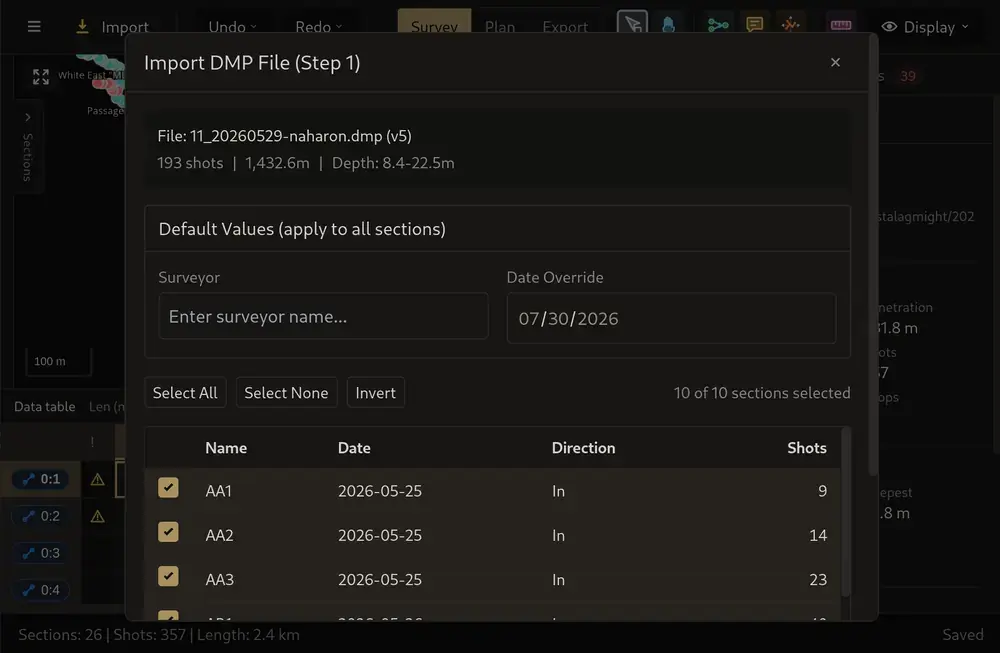
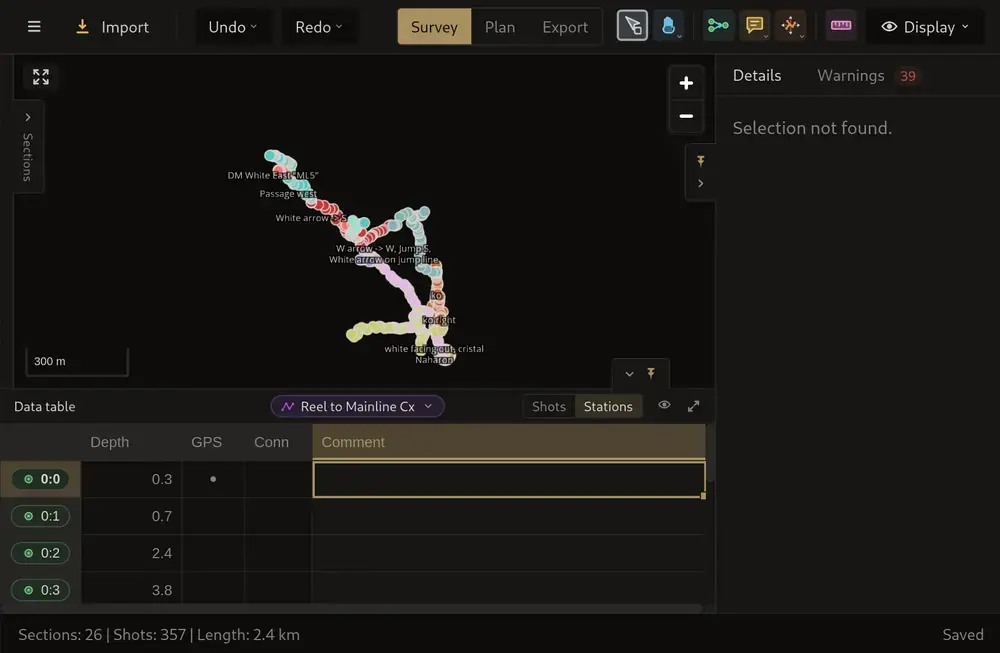
Open data entry on the finished survey; animate only the centre-most clip
Adds --order to the build tool and uses it to put the last data-entry capture
first: the finished survey is a better opening frame than the dialog that starts
the sequence, and frame one is also what becomes the reduced-motion still.
--holds is given in the reordered sequence.

Only the clip nearest the middle of the viewport now animates; the rest show
their first frame. Five looping WebPs decoding at once is wasted work and splits
attention. An animated WebP cannot be paused, so the source is swapped for the
still — which also means a clip downloads its animation only once it has been
scrolled to, instead of 555 KB of loops up front.

Left alone under prefers-reduced-motion: a matching <picture><source> beats
anything script sets on the img, so the stills already win there.

Verified by sweeping the section in 2% steps: every clip takes its turn, and
there is no point at which more than one animates or the animating clip is not
the one nearest the centre.

diff --git a/src/partials/features.html b/src/partials/features.html
@@ -28,7 +28,7 @@
       <div class="f-visual">
         <picture class="f-clip">
           <source media="(prefers-reduced-motion: reduce)" srcset="/media/data-entry-still.webp">
-          <img src="/media/data-entry.webp" width="1000" height="653" loading="lazy" decoding="async"
+          <img src="/media/data-entry.webp" data-anim="/media/data-entry.webp" data-still="/media/data-entry-still.webp" width="1000" height="653" loading="lazy" decoding="async"
                alt="Importing a mNemo DMP file: reviewing the file's sections, then the connection wizard placing each section with a suggested join, and the finished survey.">
         </picture>
       </div>
@@ -42,7 +42,7 @@
       <div class="f-visual">
         <picture class="f-clip">
           <source media="(prefers-reduced-motion: reduce)" srcset="/media/speleodb-still.webp">
-          <img src="/media/speleodb.webp" width="1000" height="747" loading="lazy" decoding="async"
+          <img src="/media/speleodb.webp" data-anim="/media/speleodb.webp" data-still="/media/speleodb-still.webp" width="1000" height="747" loading="lazy" decoding="async"
                alt="Publishing a project to SpeleoDB, taking the write lock to edit, uploading the changes, and browsing the revision history with revert options.">
         </picture>
       </div>
@@ -56,7 +56,7 @@
       <div class="f-visual">
         <picture class="f-clip">
           <source media="(prefers-reduced-motion: reduce)" srcset="/media/station-merge-still.webp">
-          <img src="/media/station-merge.webp" width="1000" height="650" loading="lazy" decoding="async"
+          <img src="/media/station-merge.webp" data-anim="/media/station-merge.webp" data-still="/media/station-merge-still.webp" width="1000" height="650" loading="lazy" decoding="async"
                alt="Dragging a survey segment onto a neighbouring station in StalagMight, then confirming the Merge Stations dialog.">
         </picture>
       </div>
@@ -70,7 +70,7 @@
       <div class="f-visual">
         <picture class="f-clip">
           <source media="(prefers-reduced-motion: reduce)" srcset="/media/dive-plan-still.webp">
-          <img src="/media/dive-plan.webp" width="1000" height="710" loading="lazy" decoding="async"
+          <img src="/media/dive-plan.webp" data-anim="/media/dive-plan.webp" data-still="/media/dive-plan-still.webp" width="1000" height="710" loading="lazy" decoding="async"
                alt="Plan mode: stations shaded by the gas needed to reach them, a route set from start point to endpoint, stage drops assigned, and the resulting depth profile with turn point.">
         </picture>
       </div>
@@ -84,7 +84,7 @@
       <div class="f-visual">
         <picture class="f-clip">
           <source media="(prefers-reduced-motion: reduce)" srcset="/media/export-still.webp">
-          <img src="/media/export.webp" width="1000" height="711" loading="lazy" decoding="async"
+          <img src="/media/export.webp" data-anim="/media/export.webp" data-still="/media/export-still.webp" width="1000" height="711" loading="lazy" decoding="async"
                alt="Exporting a survey: a print-ready SVG map image with adjustable line weight, then the same survey written out as an Ariane TML file.">
         </picture>
       </div>

diff --git a/src/index.html b/src/index.html
@@ -928,6 +928,41 @@ document.querySelectorAll('.reveal').forEach(el => {
   if (os) label.textContent = 'Download for ' + os;
 })();
 
+// Only the feature clip nearest the middle of the viewport animates; the others
+// show their first frame. Five looping WebPs decoding at once is wasted work and
+// splits attention, and an animated WebP cannot be paused — so the source is
+// swapped for the still instead. A clip therefore also downloads its animation
+// only once it has actually been looked at.
+(() => {
+  const imgs = [...document.querySelectorAll('.f-clip img[data-anim]')];
+  if (imgs.length < 2) return;
+  // Under reduced motion the <picture><source> already serves stills, and a
+  // matching <source> beats anything set on the img — nothing to manage here.
+  if (window.matchMedia('(prefers-reduced-motion: reduce)').matches) return;
+
+  let queued = false;
+  const update = () => {
+    queued = false;
+    const middle = window.innerHeight / 2;
+    let winner = null, best = Infinity;
+    for (const img of imgs) {
+      const r = img.getBoundingClientRect();
+      if (r.bottom <= 0 || r.top >= window.innerHeight) continue;   // off screen
+      const d = Math.abs(r.top + r.height / 2 - middle);
+      if (d < best) { best = d; winner = img; }
+    }
+    for (const img of imgs) {
+      const want = img === winner ? img.dataset.anim : img.dataset.still;
+      // Only assign on a real change; re-assigning would restart the loop.
+      if (!img.getAttribute('src').endsWith(want)) img.setAttribute('src', want);
+    }
+  };
+  const onScroll = () => { if (!queued) { queued = true; requestAnimationFrame(update); } };
+  window.addEventListener('scroll', onScroll, { passive: true });
+  window.addEventListener('resize', onScroll);
+  update();
+})();
+
 // Fit every scaled-down iframe (the hero app shot and the four dialog
 // previews) to the width its container actually got. Each element declares its
 // own native width, so one routine handles all of them and nothing is cropped

diff --git a/assets/build-anim.py b/assets/build-anim.py
@@ -134,14 +134,26 @@ def main() -> int:
     ap.add_argument("--fps", type=int, default=10)
     ap.add_argument("--window", choices=("auto","full"), default="auto",
                     help="auto = find the app window; full = capture is already only the app")
+    ap.add_argument("--order", help="reorder frames, 1-based indices into the sorted list;\n                          --holds is then given in this new order")
     ap.add_argument("--crop", help="tighter crop after registration, WxH+X+Y")
     ap.add_argument("--report", action="store_true")
     a = ap.parse_args()
 
     files = sorted(pathlib.Path(a.src).glob("*.png"))
-    holds = [int(x) for x in a.holds.split(",")]
     if not files:
         sys.exit(f"no PNGs in {a.src}")
+
+    # --order takes 1-based indices into the timestamp-sorted list. Capture order
+    # is not always the order that reads best: the finished result can make a
+    # better opening frame than the dialog that started it, and frame one is also
+    # what becomes the reduced-motion still.
+    if a.order:
+        idx = [int(v) for v in a.order.split(",")]
+        if sorted(idx) != list(range(1, len(files) + 1)):
+            sys.exit(f"--order must be a permutation of 1..{len(files)}, got {idx}")
+        files = [files[i - 1] for i in idx]
+
+    holds = [int(x) for x in a.holds.split(",")]
     if len(holds) != len(files):
         sys.exit(f"{len(files)} frames but {len(holds)} holds")
 

diff --git a/docs/screenshot-animations.md b/docs/screenshot-animations.md
@@ -59,7 +59,7 @@ All paths relative to `assets/screenshots/`. Every one of these reports
 
 | Folder | Feature row | Output | Extra flags |
 |---|---|---|---|
-| `import/` | mNemo & Manual Data Entry | `data-entry.webp` (131 KB, 9.4 s) | `--holds 13,10,13,9,11,10,10,18` |
+| `import/` | mNemo & Manual Data Entry | `data-entry.webp` (141 KB, 9.4 s) | `--order 8,1,2,3,4,5,6,7 --holds 18,13,10,13,9,11,10,10` |
 | `speleodb_features/` | SpeleoDB Support | `speleodb.webp` (213 KB, 19.2 s) | `--holds 9,7,9,39,9,5,6,39,9,60` |
 | `station_merge/` | Visual-First Editing | `station-merge.webp` (41 KB, 8.0 s) | `--holds 12,7,6,5,4,4,4,5,15,18 --quality 75 --window full --crop 1923x1250+588+140` |
 | `dive_plan/` | Dive Planning | `dive-plan.webp` (99 KB, 7.8 s) | `--holds 14,10,12,10,12,20` |
@@ -80,6 +80,20 @@ For the same reason `--inset` defaults to `3,3,0,3` rather than `3`. The inset
 exists to clear the window's rounded corners and border antialiasing, which is a
 top-and-sides problem; taking 3px off a straight bottom edge clipped the status
 bar for no benefit.
+
+`import` uses `--order` to put the finished survey first: it makes a better
+opening frame than the dialog that starts the sequence, and frame one is also
+what becomes the reduced-motion still. `--holds` is given in the reordered
+sequence, not capture order.
+
+## Only one clip animates at a time
+
+The page swaps each clip's `src` between its animation and its still so that only
+the clip nearest the middle of the viewport is animating. An animated WebP cannot
+be paused, so swapping the source is the way to stop it — and it means a visitor
+only downloads the animation for a clip they actually scroll to, rather than all
+555 KB up front. Under `prefers-reduced-motion` the `<picture><source>` serves
+stills and wins over anything script sets, so that path is left alone.
 
 Two need non-default flags, both for reasons the report tells you about:
 
